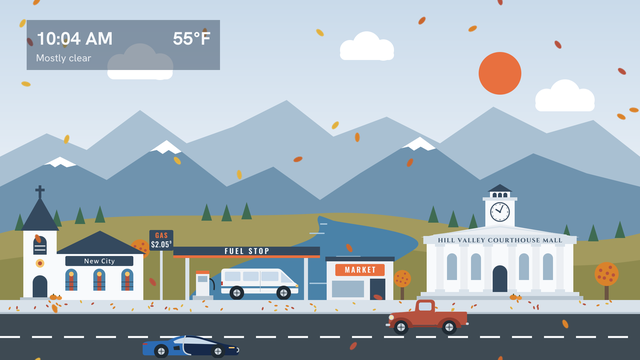
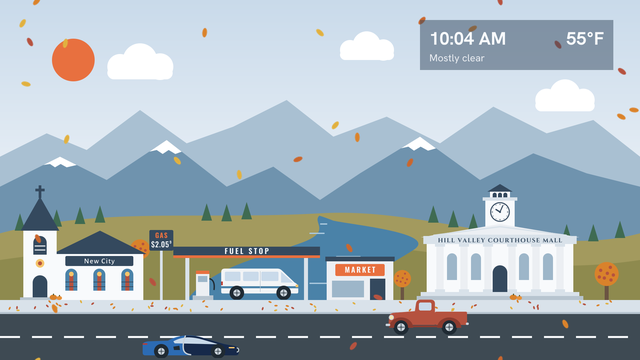
Keep the clock panel in the top-right corner and the sun and moon in the top-left
The panel's positions in m.infoSpots are now small moves within the
top-right corner, so it still moves every 5 minutes to protect TVs
from burn-in. The sun and moon are now always in the top-left corner,
so the panel never covers them. The README previews and the channel
icons are regenerated to match.

Claude-Session: https://claude.ai/code/session_01F1XyeJbkdn1kDtDDVeB88k

Changed region(s): [[0.6562, 0.0306, 0.9688, 0.275], [0.0312, 0.0306, 0.3438, 0.2444]]

diff --git a/tools/generate_images.py b/tools/generate_images.py
@@ -516,7 +516,7 @@ def composite(pal, tile="a", season="summer"):
     townFn = town if tile == "a" else town_b
     mtn = season if season == "winter" else "summer"
     full = (f'<defs><linearGradient id="g" x1="0" y1="0" x2="0" y2="1"><stop offset="0" stop-color="{p["sky"]}"/><stop offset="0.62" stop-color="{p["horizon"]}"/></linearGradient></defs>'
-            f'<rect width="1920" height="1080" fill="url(#g)"/><circle cx="1500" cy="220" r="64" fill="{ACCENT}"/>'
+            f'<rect width="1920" height="1080" fill="url(#g)"/><circle cx="220" cy="180" r="64" fill="{ACCENT}"/>'
             + clouds(p, season) + far(p, mtn) + near(p, mtn) + hills(p, season) + townFn(p, season))
     path = os.path.join(BUILD, f"composite_{season}_{pal}_{tile}.png")
     cairosvg.svg2png(bytestring=svg(full, "0 0 1920 1080", 1920, 1080).encode(), write_to=path)
@@ -605,7 +605,7 @@ def preview(pal, season, clock, temp, cond, fx=None, x=1920):
         if pal == "dusk":
             stars_im.putalpha(stars_im.getchannel("A").point(lambda v: v * 0.35))
         sky_im.alpha_composite(stars_im, (0, 0))
-    body, pos = ("moon.png", (310, 100)) if pal == "night" else ("sun.png", (1430, 150) if pal == "day" else (1390, 400))
+    body, pos = ("moon.png", (150, 100)) if pal == "night" else ("sun.png", (150, 110) if pal == "day" else (180, 340))
     sky_im.alpha_composite(Image.open(os.path.join(OUT, body)).convert("RGBA"), pos)
     back = Image.open(os.path.join(OUT, f"sky_{pal}.png")).convert("RGBA").resize((1920, 1080))
     back.alpha_composite(sky_im)
@@ -621,8 +621,8 @@ def preview(pal, season, clock, temp, cond, fx=None, x=1920):
     paste_car(im, "sports", 420, 1072, 1.0)
     if fx:
         im.alpha_composite(Image.open(os.path.join(OUT, f"{fx}.png")).convert("RGBA").resize((1920, 1080)))
-    # At night the panel uses its middle position so it does not cover the moon
-    px = 670 if pal == "night" else 80
+    # The panel's first position in m.infoSpots
+    px = 1260
     pan = Image.open(io.BytesIO(cairosvg.svg2png(bytestring=svg(panel(clock, temp, cond, px), "0 0 1920 1080", 1920, 1080).encode()))).convert("RGBA")
     im.alpha_composite(pan)
     return im.convert("RGB")

diff --git a/README.md b/README.md
@@ -2,7 +2,7 @@
 
 A Roku screensaver inspired by Roku City. It shows a small town beside a river with mountains behind it. The scenery scrolls in layers at different speeds (parallax), cars drive along the street, and a panel shows the time, the temperature, and the current weather.
 
-![Riverside Town on a summer day: a church, a gas station with a parked van, and the Hill Valley Courthouse Mall, with cars on the street and the clock and weather panel at the top left](docs/preview.png)
+![Riverside Town on a summer day: a church, a gas station with a parked van, and the Hill Valley Courthouse Mall, with cars on the street and the clock and weather panel at the top right](docs/preview.png)
 
 ## Seasons
 
@@ -47,7 +47,7 @@ These images are drawn by `tools/generate_images.py` from the same artwork the s
   - Thunderstorms: rain and lightning flashes at random times.
 
   Falling leaves, petals, and fireflies are hidden while rain or snow is falling.
-- A clock and weather panel that moves to a new position every 5 minutes to protect TVs from burn-in.
+- A clock and weather panel in the top-right corner. Every 5 minutes it moves a small amount within the corner to protect TVs from burn-in. The sun and moon are in the top-left corner, so the panel never covers them.
 
 ## Project layout
 
@@ -97,7 +97,7 @@ All settings are at the top of `init()` in `components/MainScene.brs`.
 | `m.layerWidths` | Width of each scenery layer before it repeats. The town is 3840 because it is two different 1920 pixel sections. |
 | `m.cameraSpeed` | Must match the `town` layer speed. Cars use it so their speed looks correct relative to the street. |
 | `m.carDefs` | Each car's image size, wheel positions, wheel radius, and `ground` speed in pixels per second. |
-| `m.infoSpots` | The positions the clock panel moves between. |
+| `m.infoSpots` | The positions the clock panel moves between. They are all in the top-right corner. |
 | `m.seasonOverride` | Set to `"spring"`, `"summer"`, `"fall"`, or `"winter"` to always show that season, for example to preview it. Leave it as `""` to choose the season from the date. |
 | `m.seasonalLayers` | Which scenery layers have a different image for some seasons. It must match `SEASONAL` in `tools/generate_images.py`. |
 

diff --git a/AGENTS.md b/AGENTS.md
@@ -53,7 +53,7 @@ These apply to code, comments, commit messages, README.md, and this file.
 - `m.cameraSpeed` must equal the `town` value in `m.layerSpeeds`. A car's on-screen speed is its `ground` speed minus the camera speed in the near lane (moving right) and plus the camera speed in the far lane (moving left).
 - Car ground speeds are ordered on purpose: the sports car fastest by a clear amount, then the sedan, then the van and Jeep, then the old truck slowest. Keep that order unless the owner asks for a change.
 - Only one car uses a lane at a time so that faster cars never overlap slower ones.
-- The clock panel moves between the positions in `m.infoSpots` to protect TVs from burn-in. Keep each position fully on screen for the current panel width (580 pixels).
+- The clock panel stays in the top-right corner and the sun and moon stay in the top-left corner, as the owner asked. The panel moves between the positions in `m.infoSpots`, which are small moves within the top-right corner, to protect TVs from burn-in. Keep each position fully on screen for the current panel width (580 pixels) and height (150 pixels), and away from the sun and moon positions in `applyScene()`. The README previews copy these positions in `preview()` in the generator.
 
 ## Packaging
 
